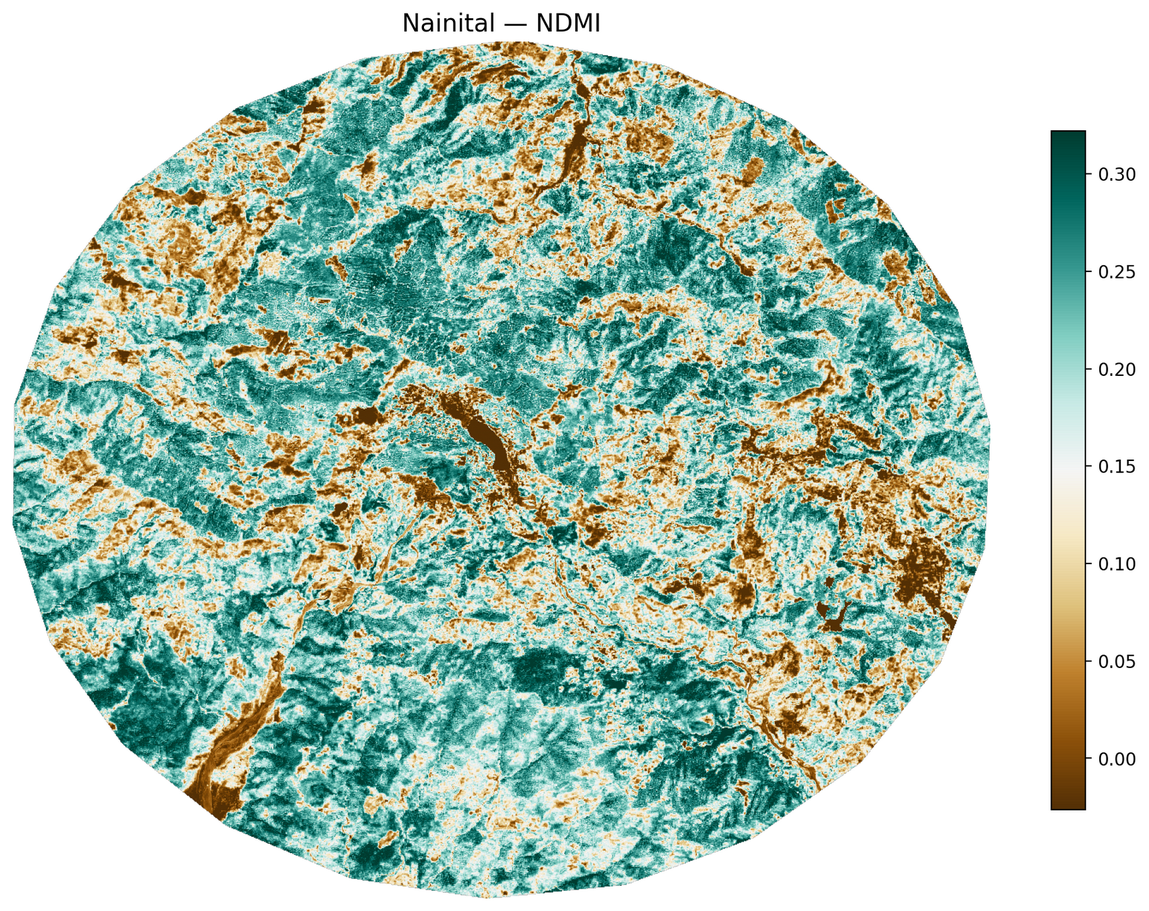
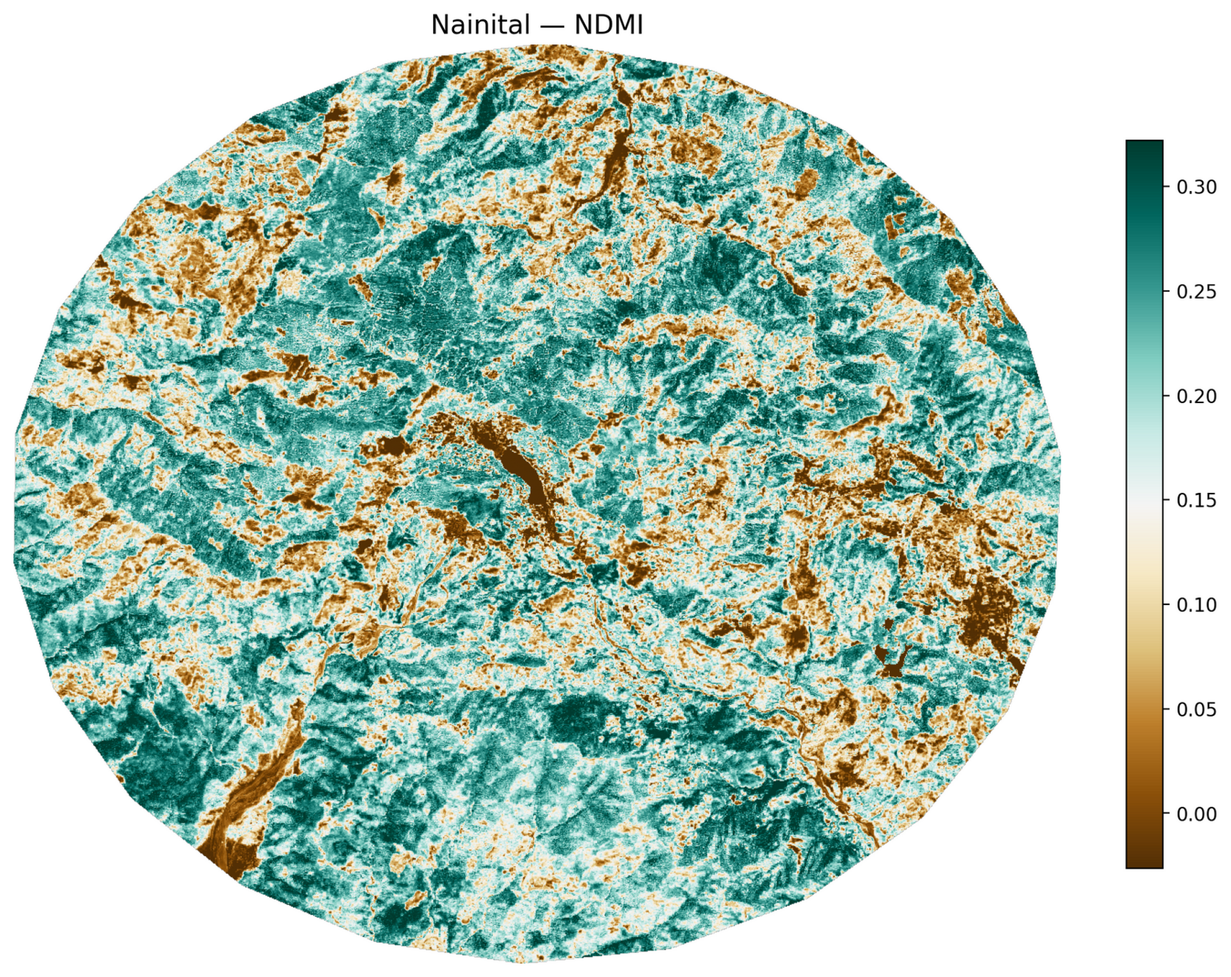
chore: add new historical imagery data
Add satellite analysis imagery (NDMI 2025, NDVI 2023, and NDVI 2025) to public assets.

diff --git a/src/components/dashboard/HistoricalSatelliteComparison.tsx b/src/components/dashboard/HistoricalSatelliteComparison.tsx
@@ -101,19 +101,49 @@ export const HistoricalSatelliteComparison: React.FC = () => {
   const updateSliderFromClientX = useCallback((clientX: number) => {
     if (!containerRef.current) return;
     const rect = containerRef.current.getBoundingClientRect();
+    if (rect.width <= 0) return;
     const x = clientX - rect.left;
     const percentage = Math.max(0, Math.min(100, (x / rect.width) * 100));
     setSliderPos(Math.round(percentage * 10) / 10);
   }, []);
 
-  // Mouse interaction handlers
+  // Pointer event handlers with pointer capture support
+  const handlePointerDown = (e: React.PointerEvent<HTMLDivElement>) => {
+    // Only accept primary button for mouse, or any touch/pen
+    if (e.pointerType === 'mouse' && e.button !== 0) return;
+    try {
+      e.currentTarget.setPointerCapture(e.pointerId);
+    } catch {
+      // Ignore if pointer capture fails
+    }
+    setIsDragging(true);
+    updateSliderFromClientX(e.clientX);
+  };
+
+  const handlePointerMove = (e: React.PointerEvent<HTMLDivElement>) => {
+    if (!isDragging) return;
+    updateSliderFromClientX(e.clientX);
+  };
+
+  const handlePointerUp = (e: React.PointerEvent<HTMLDivElement>) => {
+    try {
+      if (e.currentTarget.hasPointerCapture(e.pointerId)) {
+        e.currentTarget.releasePointerCapture(e.pointerId);
+      }
+    } catch {
+      // Ignore
+    }
+    setIsDragging(false);
+  };
+
+  // Fallback mouse & touch interaction handlers
   const handleMouseDown = (e: React.MouseEvent) => {
+    if (e.button !== 0) return;
     e.preventDefault();
     setIsDragging(true);
     updateSliderFromClientX(e.clientX);
   };
 
-  // Touch interaction handlers
   const handleTouchStart = (e: React.TouchEvent) => {
     setIsDragging(true);
     if (e.touches[0]) {
@@ -121,40 +151,42 @@ export const HistoricalSatelliteComparison: React.FC = () => {
     }
   };
 
-  // Global mousemove & mouseup listeners
+  // Global window listeners as redundant backup while dragging
   useEffect(() => {
-    const handleMouseMove = (e: MouseEvent) => {
+    const handleWindowMouseMove = (e: MouseEvent) => {
       if (!isDragging) return;
       updateSliderFromClientX(e.clientX);
     };
 
-    const handleMouseUp = () => {
+    const handleWindowMouseUp = () => {
       if (isDragging) setIsDragging(false);
     };
 
-    const handleTouchMove = (e: TouchEvent) => {
+    const handleWindowTouchMove = (e: TouchEvent) => {
       if (!isDragging) return;
       if (e.touches[0]) {
         updateSliderFromClientX(e.touches[0].clientX);
       }
     };
 
-    const handleTouchEnd = () => {
+    const handleWindowTouchEnd = () => {
       if (isDragging) setIsDragging(false);
     };
 
     if (isDragging) {
-      window.addEventListener('mousemove', handleMouseMove);
-      window.addEventListener('mouseup', handleMouseUp);
-      window.addEventListener('touchmove', handleTouchMove);
-      window.addEventListener('touchend', handleTouchEnd);
+      window.addEventListener('mousemove', handleWindowMouseMove);
+      window.addEventListener('mouseup', handleWindowMouseUp);
+      window.addEventListener('touchmove', handleWindowTouchMove, { passive: true });
+      window.addEventListener('touchend', handleWindowTouchEnd);
+      window.addEventListener('touchcancel', handleWindowTouchEnd);
     }
 
     return () => {
-      window.removeEventListener('mousemove', handleMouseMove);
-      window.removeEventListener('mouseup', handleMouseUp);
-      window.removeEventListener('touchmove', handleTouchMove);
-      window.removeEventListener('touchend', handleTouchEnd);
+      window.removeEventListener('mousemove', handleWindowMouseMove);
+      window.removeEventListener('mouseup', handleWindowMouseUp);
+      window.removeEventListener('touchmove', handleWindowTouchMove);
+      window.removeEventListener('touchend', handleWindowTouchEnd);
+      window.removeEventListener('touchcancel', handleWindowTouchEnd);
     };
   }, [isDragging, updateSliderFromClientX]);
 
@@ -348,43 +380,23 @@ export const HistoricalSatelliteComparison: React.FC = () => {
             aria-label="Satellite comparison slider"
             aria-valuemin={0}
             aria-valuemax={100}
-            aria-valuenow={sliderPos}
-            onKeyDown={handleKeyDown}
+            aria-valuenow={Math.round(sliderPos)}
+            onPointerDown={handlePointerDown}
+            onPointerMove={handlePointerMove}
+            onPointerUp={handlePointerUp}
+            onPointerCancel={handlePointerUp}
             onMouseDown={handleMouseDown}
             onTouchStart={handleTouchStart}
-            className="relative w-full h-[380px] sm:h-[520px] md:h-[620px] rounded-xl overflow-hidden bg-[#030906] border border-white/15 select-none cursor-ew-resize focus-visible:outline-none focus-visible:ring-2 focus-visible:ring-[#2ECC71]"
+            onKeyDown={handleKeyDown}
+            className="relative w-full h-[380px] sm:h-[520px] md:h-[620px] rounded-xl overflow-hidden bg-[#030906] border border-white/15 select-none touch-none cursor-ew-resize focus-visible:outline-none focus-visible:ring-2 focus-visible:ring-[#2ECC71]"
           >
-            {/* Background Layer: 2025 (After) */}
-            <div className="absolute inset-0 flex items-center justify-center p-2">
-              <img
-                src={imageErrors[`${mode}-after`] ? currentAssets.after.fallback : currentAssets.after.src}
-                alt={currentAssets.after.alt}
-                onError={() => handleImageError(`${mode}-after`)}
-                className="w-full h-full object-contain pointer-events-none select-none"
-              />
-              {imageErrors[`${mode}-after`] && (
-                <div className="absolute inset-0 flex items-center justify-center bg-black/60 p-4 text-center">
-                  <div className="max-w-xs p-4 rounded-xl bg-black/80 border border-white/20 text-xs">
-                    <AlertTriangle size={20} className="mx-auto text-[#F5B841] mb-2" />
-                    <p className="text-white font-bold">{currentAssets.after.label}</p>
-                    <p className="text-[#8A9A92] mt-1">Image loaded via secondary fallback buffer.</p>
-                  </div>
-                </div>
-              )}
-            </div>
-
-            {/* Foreground Layer: 2023 (Before) clipped by sliderPos */}
-            <div
-              className="absolute inset-0 flex items-center justify-center p-2 pointer-events-none select-none transition-none"
-              style={{
-                clipPath: `polygon(0 0, ${sliderPos}% 0, ${sliderPos}% 100%, 0 100%)`,
-                WebkitClipPath: `polygon(0 0, ${sliderPos}% 0, ${sliderPos}% 100%, 0 100%)`,
-              }}
-            >
+            {/* BASE LAYER: 2023 (Before) Observation */}
+            <div className="absolute inset-0 flex items-center justify-center p-2 pointer-events-none select-none">
               <img
                 src={imageErrors[`${mode}-before`] ? currentAssets.before.fallback : currentAssets.before.src}
                 alt={currentAssets.before.alt}
                 onError={() => handleImageError(`${mode}-before`)}
+                draggable={false}
                 className="w-full h-full object-contain pointer-events-none select-none"
               />
               {imageErrors[`${mode}-before`] && (
@@ -398,22 +410,48 @@ export const HistoricalSatelliteComparison: React.FC = () => {
               )}
             </div>
 
+            {/* OVERLAY LAYER: 2025 (After) Observation clipped dynamically */}
+            <div
+              className="absolute inset-0 flex items-center justify-center p-2 pointer-events-none select-none transition-none"
+              style={{
+                clipPath: `inset(0 0 0 ${sliderPos}%)`,
+                WebkitClipPath: `inset(0 0 0 ${sliderPos}%)`,
+              }}
+            >
+              <img
+                src={imageErrors[`${mode}-after`] ? currentAssets.after.fallback : currentAssets.after.src}
+                alt={currentAssets.after.alt}
+                onError={() => handleImageError(`${mode}-after`)}
+                draggable={false}
+                className="w-full h-full object-contain pointer-events-none select-none"
+              />
+              {imageErrors[`${mode}-after`] && (
+                <div className="absolute inset-0 flex items-center justify-center bg-black/60 p-4 text-center">
+                  <div className="max-w-xs p-4 rounded-xl bg-black/80 border border-white/20 text-xs">
+                    <AlertTriangle size={20} className="mx-auto text-[#F5B841] mb-2" />
+                    <p className="text-white font-bold">{currentAssets.after.label}</p>
+                    <p className="text-[#8A9A92] mt-1">Image loaded via secondary fallback buffer.</p>
+                  </div>
+                </div>
+              )}
+            </div>
+
             {/* Floating Year / Period Badges */}
-            <div className="absolute top-4 left-4 z-20 pointer-events-none">
+            <div className="absolute top-4 left-4 z-20 pointer-events-none select-none">
               <div className="px-3 py-1.5 rounded-lg bg-black/80 backdrop-blur-md border border-[#2ECC71]/40 text-xs font-mono font-bold text-white shadow-xl flex items-center gap-2">
                 <span className="w-2 h-2 rounded-full bg-[#2ECC71] animate-pulse" />
-                <span>2023 · Oct–Nov</span>
+                <span>2023 · Oct–Nov (Before)</span>
               </div>
             </div>
 
-            <div className="absolute top-4 right-4 z-20 pointer-events-none">
+            <div className="absolute top-4 right-4 z-20 pointer-events-none select-none">
               <div className="px-3 py-1.5 rounded-lg bg-black/80 backdrop-blur-md border border-[#38BDF8]/40 text-xs font-mono font-bold text-white shadow-xl flex items-center gap-2">
                 <span className="w-2 h-2 rounded-full bg-[#38BDF8] animate-pulse" />
-                <span>2025 · Oct–Nov</span>
+                <span>2025 · Oct–Nov (After)</span>
               </div>
             </div>
 
-            {/* Vertical Divider Line */}
+            {/* Vertical Divider Line & Interactive Handle aligned to sliderPos */}
             <div
               className="absolute top-0 bottom-0 z-30 pointer-events-none"
               style={{ left: `${sliderPos}%` }}
@@ -422,7 +460,10 @@ export const HistoricalSatelliteComparison: React.FC = () => {
               <div className="absolute -left-[1px] top-0 bottom-0 w-[2px] bg-white shadow-[0_0_12px_rgba(255,255,255,0.7)]" />
 
               {/* Slider Handle Grip */}
-              <div className="absolute top-1/2 -translate-y-1/2 -translate-x-1/2 w-10 h-10 rounded-full bg-white text-black shadow-2xl flex items-center justify-center border-2 border-[#0A1F13] cursor-ew-resize hover:scale-110 active:scale-95 transition-transform pointer-events-auto">
+              <div
+                className="absolute top-1/2 -translate-y-1/2 -translate-x-1/2 w-10 h-10 rounded-full bg-white text-black shadow-2xl flex items-center justify-center border-2 border-[#0A1F13] cursor-ew-resize hover:scale-110 active:scale-95 transition-transform"
+                style={{ pointerEvents: 'none' }}
+              >
                 <div className="flex items-center -space-x-1">
                   <ChevronLeft size={16} strokeWidth={3} className="text-black" />
                   <ChevronRight size={16} strokeWidth={3} className="text-black" />
@@ -430,7 +471,7 @@ export const HistoricalSatelliteComparison: React.FC = () => {
               </div>
 
               {/* Slider Percentage Tag */}
-              <div className="absolute bottom-4 -translate-x-1/2 px-2 py-0.5 rounded bg-black/90 border border-white/20 text-[10px] font-mono font-bold text-white whitespace-nowrap shadow-md pointer-events-none">
+              <div className="absolute bottom-4 -translate-x-1/2 px-2 py-0.5 rounded bg-black/90 border border-white/20 text-[10px] font-mono font-bold text-white whitespace-nowrap shadow-md pointer-events-none select-none">
                 {Math.round(sliderPos)}% Split
               </div>
             </div>
@@ -452,7 +493,8 @@ export const HistoricalSatelliteComparison: React.FC = () => {
                   src={imageErrors[`${mode}-before`] ? currentAssets.before.fallback : currentAssets.before.src}
                   alt={currentAssets.before.alt}
                   onError={() => handleImageError(`${mode}-before`)}
-                  className="w-full h-full object-contain"
+                  draggable={false}
+                  className="w-full h-full object-contain select-none"
                 />
               </div>
             </div>
@@ -471,7 +513,8 @@ export const HistoricalSatelliteComparison: React.FC = () => {
                   src={imageErrors[`${mode}-after`] ? currentAssets.after.fallback : currentAssets.after.src}
                   alt={currentAssets.after.alt}
                   onError={() => handleImageError(`${mode}-after`)}
-                  className="w-full h-full object-contain"
+                  draggable={false}
+                  className="w-full h-full object-contain select-none"
                 />
               </div>
             </div>
@@ -485,21 +528,33 @@ export const HistoricalSatelliteComparison: React.FC = () => {
             <button
               type="button"
               onClick={() => setSliderPos(20)}
-              className="px-2 py-1 rounded bg-white/[0.04] hover:bg-white/10 text-white font-bold"
+              className={`px-2.5 py-1 rounded transition-colors ${
+                Math.round(sliderPos) === 20
+                  ? 'bg-[#38BDF8]/25 text-[#38BDF8] border border-[#38BDF8]/40 font-bold'
+                  : 'bg-white/[0.04] hover:bg-white/10 text-white font-bold'
+              }`}
             >
               20% (More 2025)
             </button>
             <button
               type="button"
               onClick={() => setSliderPos(50)}
-              className="px-2 py-1 rounded bg-white/[0.04] hover:bg-white/10 text-[#2ECC71] font-bold"
+              className={`px-2.5 py-1 rounded transition-colors ${
+                Math.round(sliderPos) === 50
+                  ? 'bg-[#2ECC71]/25 text-[#2ECC71] border border-[#2ECC71]/40 font-bold'
+                  : 'bg-white/[0.04] hover:bg-white/10 text-[#2ECC71] font-bold'
+              }`}
             >
               50% (Centered)
             </button>
             <button
               type="button"
               onClick={() => setSliderPos(80)}
-              className="px-2 py-1 rounded bg-white/[0.04] hover:bg-white/10 text-white font-bold"
+              className={`px-2.5 py-1 rounded transition-colors ${
+                Math.round(sliderPos) === 80
+                  ? 'bg-[#B6F36A]/25 text-[#B6F36A] border border-[#B6F36A]/40 font-bold'
+                  : 'bg-white/[0.04] hover:bg-white/10 text-white font-bold'
+              }`}
             >
               80% (More 2023)
             </button>
